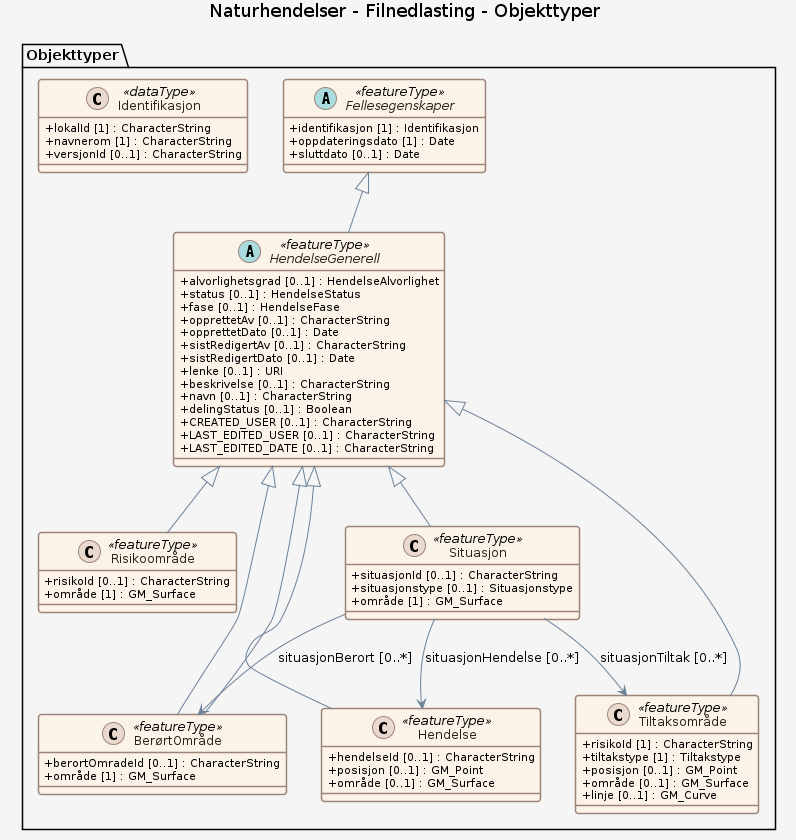
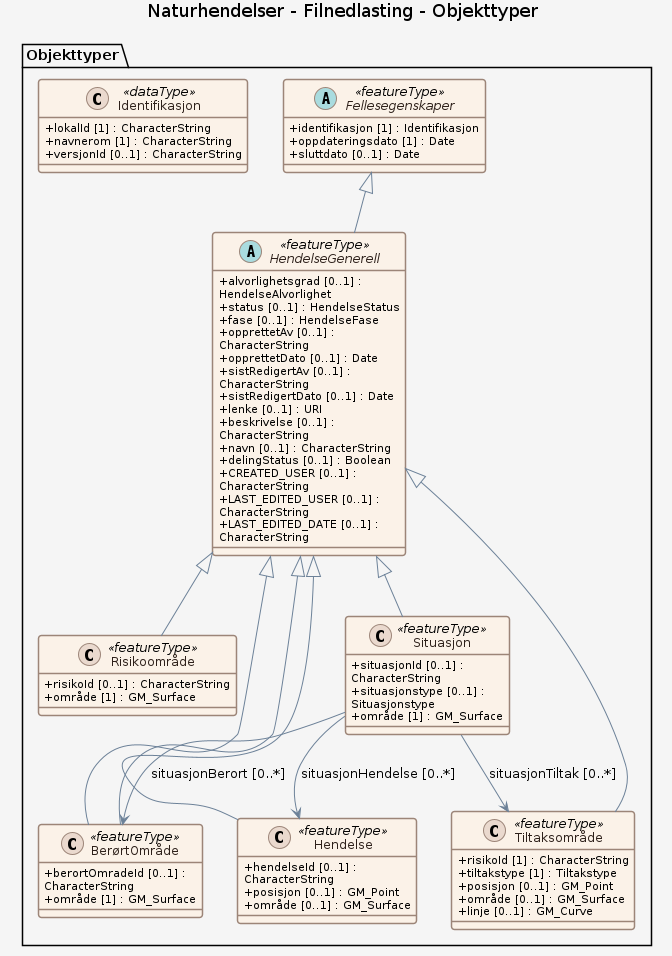
update produktspesifikasjon

diff --git a/produktspesifikasjon/hendelser/filnedlasting/objektkatalog.md b/produktspesifikasjon/hendelser/filnedlasting/objektkatalog.md
@@ -1,5 +1,19 @@
 ### Datamodell
 
+#### Oversikt
+
+<a href="filnedlasting_feature_catalogue_overview.png" title="Klikk for stor visning"><img src="filnedlasting_feature_catalogue_overview.png" alt="Datamodell Filnedlasting - oversikt" style="max-width: 100%; height: auto;" /></a>
+
+#### Pakke: Generelle elementer
+
+<a href="filnedlasting_feature_catalogue_Generelle_elementer.png" title="Klikk for stor visning"><img src="filnedlasting_feature_catalogue_Generelle_elementer.png" alt="Datamodell Filnedlasting - Generelle elementer" style="max-width: 100%; height: auto;" /></a>
+
+#### Pakke: Hendelser Test 20250620
+
+<a href="filnedlasting_feature_catalogue_Hendelser_Test_20250620.png" title="Klikk for stor visning"><img src="filnedlasting_feature_catalogue_Hendelser_Test_20250620.png" alt="Datamodell Filnedlasting - Hendelser Test 20250620" style="max-width: 100%; height: auto;" /></a>
+
+#### Komplett diagram
+
 <a href="filnedlasting_feature_catalogue.png" title="Klikk for stor visning"><img src="filnedlasting_feature_catalogue.png" alt="Datamodell Filnedlasting" style="max-width: 100%; height: auto;" /></a>
 
 #### Risikoområde

diff --git a/produktspesifikasjon/hendelser/index.md b/produktspesifikasjon/hendelser/index.md
@@ -100,11 +100,11 @@ Tjenesten leverer digitale rapporter som beskriver værrelaterte hendelser som h
 
 
 
-<a href="filnedlasting/filnedlasting_feature_catalogue.png" title="Klikk for stor visning"><img src="filnedlasting/filnedlasting_feature_catalogue.png" alt="Datamodell Filnedlasting" style="max-width: 100%; height: auto;" /></a>
+<a href="filnedlasting/filnedlasting_feature_catalogue_overview.png" title="Klikk for stor visning"><img src="filnedlasting/filnedlasting_feature_catalogue_overview.png" alt="Datamodell Filnedlasting" style="max-width: 100%; height: auto;" /></a>
 
 
 
-➡ [Se full datamodell for omfang "Filnedlasting" (diagram og objektkatalog)](filnedlasting/objektkatalog.html)
+➡ [Se full datamodell for omfang "Filnedlasting" (diagram per pakke og objektkatalog)](filnedlasting/objektkatalog.html)
 
 ## Datakvalitet
 

diff --git a/produktspesifikasjon/hendelser/scope_catalogues.md b/produktspesifikasjon/hendelser/scope_catalogues.md
@@ -2,8 +2,8 @@
 
 
 
-<a href="filnedlasting/filnedlasting_feature_catalogue.png" title="Klikk for stor visning"><img src="filnedlasting/filnedlasting_feature_catalogue.png" alt="Datamodell Filnedlasting" style="max-width: 100%; height: auto;" /></a>
+<a href="filnedlasting/filnedlasting_feature_catalogue_overview.png" title="Klikk for stor visning"><img src="filnedlasting/filnedlasting_feature_catalogue_overview.png" alt="Datamodell Filnedlasting" style="max-width: 100%; height: auto;" /></a>
 
 
 
-➡ [Se full datamodell for omfang "Filnedlasting" (diagram og objektkatalog)](filnedlasting/objektkatalog.html)
+➡ [Se full datamodell for omfang "Filnedlasting" (diagram per pakke og objektkatalog)](filnedlasting/objektkatalog.html)
